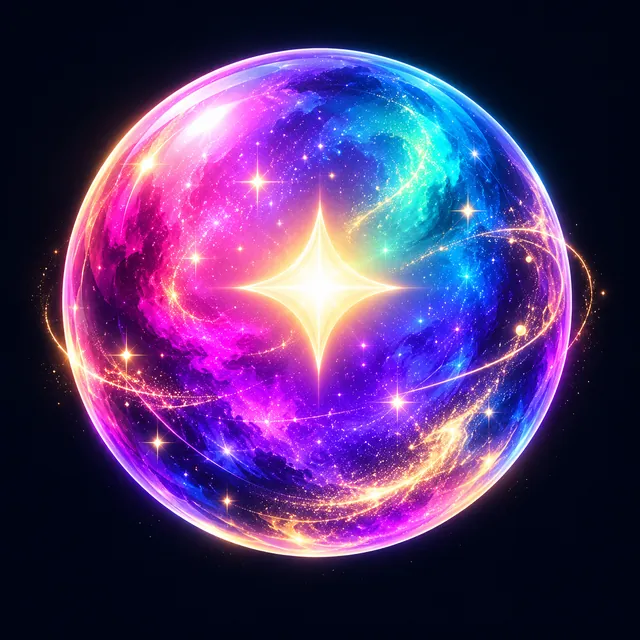
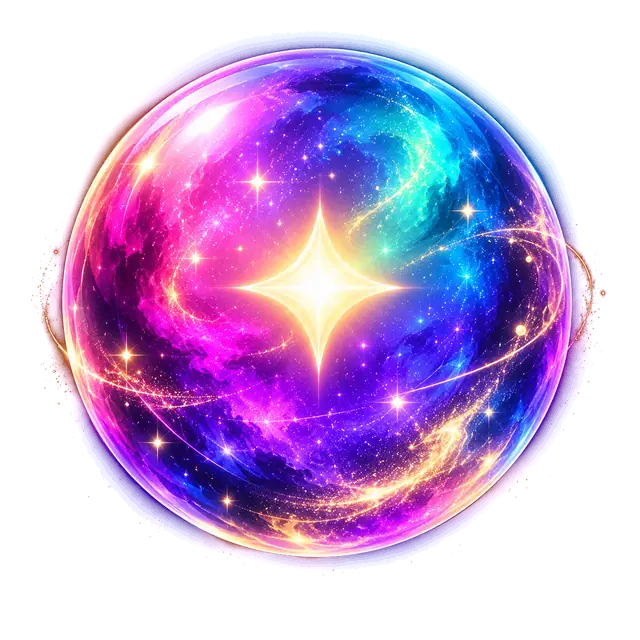
fix: make the orb transparent instead of blending its black background

diff --git a/src/components/StarSearch/starVideo.ts b/src/components/StarSearch/starVideo.ts
@@ -17,14 +17,10 @@ const ease = (x: number) => 1 - (1 - clamp(x)) ** 3
 const sceneAlpha = (t: number, from: number, to: number) =>
   Math.min(clamp((t - from) / FADE_MS), to === Infinity ? 1 : clamp((to - t) / FADE_MS))
 
-type Palette = Record<
-  'primary' | 'night' | 'violet' | 'magenta' | 'lime' | 'gold' | 'light' | 'ink' | 'muted' | 'soft',
-  string
->
+type Palette = Record<'primary' | 'violet' | 'magenta' | 'lime' | 'gold' | 'light' | 'ink' | 'muted' | 'soft', string>
 
 const readPalette = (): Palette => ({
   primary: cssColor('--primary'),
-  night: cssColor('--decor-night'),
   violet: cssColor('--decor-violet'),
   magenta: cssColor('--decor-magenta'),
   lime: cssColor('--brand'),
@@ -47,7 +43,7 @@ export async function loadOrbImage(src = '/images/stars/orb.webp'): Promise<HTML
   }
 }
 
-/** The magic orb: the picture over a night glow, or without it a swirl of the brand colours; sparkles around. */
+/** The magic orb: the picture, or without it a swirl of the brand colours; sparkles around. */
 function drawOrb(
   ctx: CanvasRenderingContext2D,
   p: Palette,
@@ -58,20 +54,7 @@ function drawOrb(
   t: number,
 ) {
   if (orb) {
-    // The frame is light: the night glow lets `screen` keep the orb's colours, and its black background vanishes.
-    ctx.save()
-    const night = ctx.createRadialGradient(x, y, r * 0.95, x, y, r * 1.3)
-    night.addColorStop(0, p.night)
-    night.addColorStop(1, 'transparent')
-    ctx.fillStyle = night
-    ctx.fillRect(x - r * 1.3, y - r * 1.3, r * 2.6, r * 2.6)
-    ctx.beginPath()
-    ctx.arc(x, y, r * 0.95, 0, Math.PI * 2)
-    ctx.fillStyle = p.night
-    ctx.fill()
-    ctx.globalCompositeOperation = 'screen'
     ctx.drawImage(orb, x - r * 1.25, y - r * 1.25, r * 2.5, r * 2.5)
-    ctx.restore()
   } else {
     drawSwirlOrb(ctx, p, x, y, r, t)
   }

diff --git a/src/components/StarSearch/MagicOrb.tsx b/src/components/StarSearch/MagicOrb.tsx
@@ -19,8 +19,8 @@ const sparkles = [
 ]
 
 /**
- * The crystal ball: the owner's picture, its black background gone under `mix-blend-screen`, with a breathing
- * glow and twinkling sparkles. Always sits on a dark surface. Decorative; under reduced motion the global rule
+ * The crystal ball: the owner's picture (transparent outside the glass), with a breathing glow and twinkling
+ * sparkles. Decorative; under reduced motion the global rule
  * stops every animation, so the orb stands still and the symbol is shown.
  */
 export function MagicOrb({ symbol, active = false, className }: Props) {
@@ -32,11 +32,10 @@ export function MagicOrb({ symbol, active = false, className }: Props) {
         alt=""
         width={640}
         height={640}
-        className="absolute -inset-[12.5%] size-[125%] max-w-none mix-blend-screen mask-radial-closest-side mask-radial-from-85% mask-radial-to-100% select-none"
+        className="absolute -inset-[12.5%] size-[125%] max-w-none select-none"
         draggable={false}
       />
       {symbol && (
-        // Its own container, so that the picture's blend mode still reaches the sky behind the orb.
         <div className="@container absolute inset-0">
           <span
             key={String(active)}

diff --git a/src/components/StarSearch/starVideo.test.tsx b/src/components/StarSearch/starVideo.test.tsx
@@ -23,7 +23,7 @@ function stubImage(decode: () => Promise<void>) {
 }
 
 const palette = Object.fromEntries(
-  ['primary', 'night', 'violet', 'magenta', 'lime', 'gold', 'light', 'ink', 'muted', 'soft'].map((k) => [k, '#123456']),
+  ['primary', 'violet', 'magenta', 'lime', 'gold', 'light', 'ink', 'muted', 'soft'].map((k) => [k, '#123456']),
 ) as Parameters<typeof drawReadingFrame>[4]['p']
 
 /** A canvas context that remembers what was drawn. */
@@ -58,7 +58,7 @@ describe('orb picture of the video', () => {
     expect(await loadOrbImage()).toBeNull()
   })
 
-  it('is drawn with screen blending', () => {
+  it('is drawn as a picture', () => {
     const { ctx, calls } = fakeContext()
     const orb = {} as HTMLImageElement
     drawReadingFrame(ctx, reading, 'Анна', 1000, { p: palette, font: 'sans-serif', site: 'x.test', orb })

diff --git a/scripts/build-images.py b/scripts/build-images.py
@@ -1,7 +1,7 @@
 """Builds the optimized images in public/images from downloaded originals.
 
 Usage:
-    uv run --with pillow python scripts/build-images.py <sources-dir>
+    uv run --with pillow --with numpy python scripts/build-images.py <sources-dir>
 
 Expected files in <sources-dir> (see public/images/CREDITS.md for origins):
     florence.jpg  Florence panorama with the Duomo
@@ -16,6 +16,7 @@ The globe is built from vector data by scripts/build-globe.py.
 import sys
 from pathlib import Path
 
+import numpy as np
 from PIL import Image
 
 OUT = Path(__file__).resolve().parent.parent / "public" / "images"
@@ -33,12 +34,37 @@ def crop_to(img: Image.Image, ratio: float, cx: float, cy: float, zoom: float = 
 
 def save_to(img: Image.Image, path: Path, width: int, quality: int = 80) -> None:
     img = img.resize((width, round(img.height * width / img.width)), Image.LANCZOS)
-    img.save(path, "WEBP", quality=quality, method=6)
+    img.save(path, "WEBP", quality=quality, method=6, alpha_quality=min(quality, 50))
     print(f"{path.relative_to(OUT)}: {img.size[0]}x{img.size[1]}, {path.stat().st_size // 1024} KB")
 
 
 def save(img: Image.Image, name: str, width: int, quality: int = 80) -> None:
     save_to(img, OUT / name, width, quality)
+
+
+# The orb in orb.png: centre and radius of the glass sphere, measured on the 1254 px source.
+ORB_CENTER = (623.0, 594.0)
+ORB_RADIUS = 497.0
+ORB_BLACK = 30.0  # brightness of the source's black background
+
+
+def orb_with_alpha(img: Image.Image) -> Image.Image:
+    """Turns the black background of the orb into transparency.
+
+    Inside the sphere alpha is 1. Outside it comes from the brightness, so that the golden orbits, sparks and
+    glow stay while the black goes; the colour outside is divided by that alpha (no dark fringe on light pages).
+    """
+    rgb = np.asarray(img).astype(np.float32)
+    h, w = rgb.shape[:2]
+    y, x = np.mgrid[0:h, 0:w]
+    dist = np.hypot(x - ORB_CENTER[0], y - ORB_CENTER[1])
+    inside = np.clip((ORB_RADIUS - dist) / 4 + 0.5, 0, 1)
+    bright = np.clip((rgb.max(axis=2) - ORB_BLACK) / (255 - ORB_BLACK), 0, 1)
+    alpha = np.maximum(inside, np.clip(bright * 1.6, 0, 1) ** 0.8)
+    colour = np.clip(rgb / np.maximum(alpha, 1e-3)[..., None], 0, 255)
+    colour = np.where(inside[..., None] >= 1, rgb, colour)
+    out = np.dstack([colour, alpha * 255]).astype(np.uint8)
+    return Image.fromarray(out, "RGBA")
 
 
 def main(src: Path) -> None:
@@ -63,8 +89,8 @@ def main(src: Path) -> None:
         for name, width, quality in (("sky.webp", 1400, 70), ("sky-mobile.webp", 800, 70)):
             save_to(sky, stars / name, width, quality)
     if (src / "orb.png").exists():
-        orb = Image.open(src / "orb.png").convert("RGB")
-        save_to(orb.resize((640, 640), Image.LANCZOS), stars / "orb.webp", 640, 80)
+        orb = orb_with_alpha(Image.open(src / "orb.png").convert("RGB"))
+        save_to(orb, stars / "orb.webp", 640, 70)
 
 
 if __name__ == "__main__":
